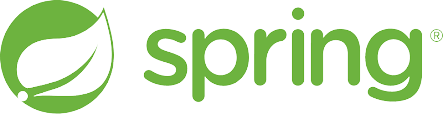
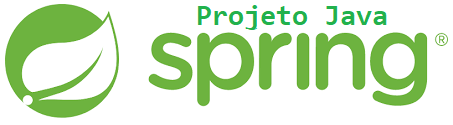
img

diff --git a/README.md b/README.md
@@ -1,6 +1,6 @@
 <p align="center">
         <a href="https://www.linkedin.com/in/all-an/">
-        <img align="center" width="443" height="114"  src="/img/springrmbg.png" />
+        <img align="center" width="453" height="125"  src="/img/springrmbg2.png" />
 </a>
 </p>
 
